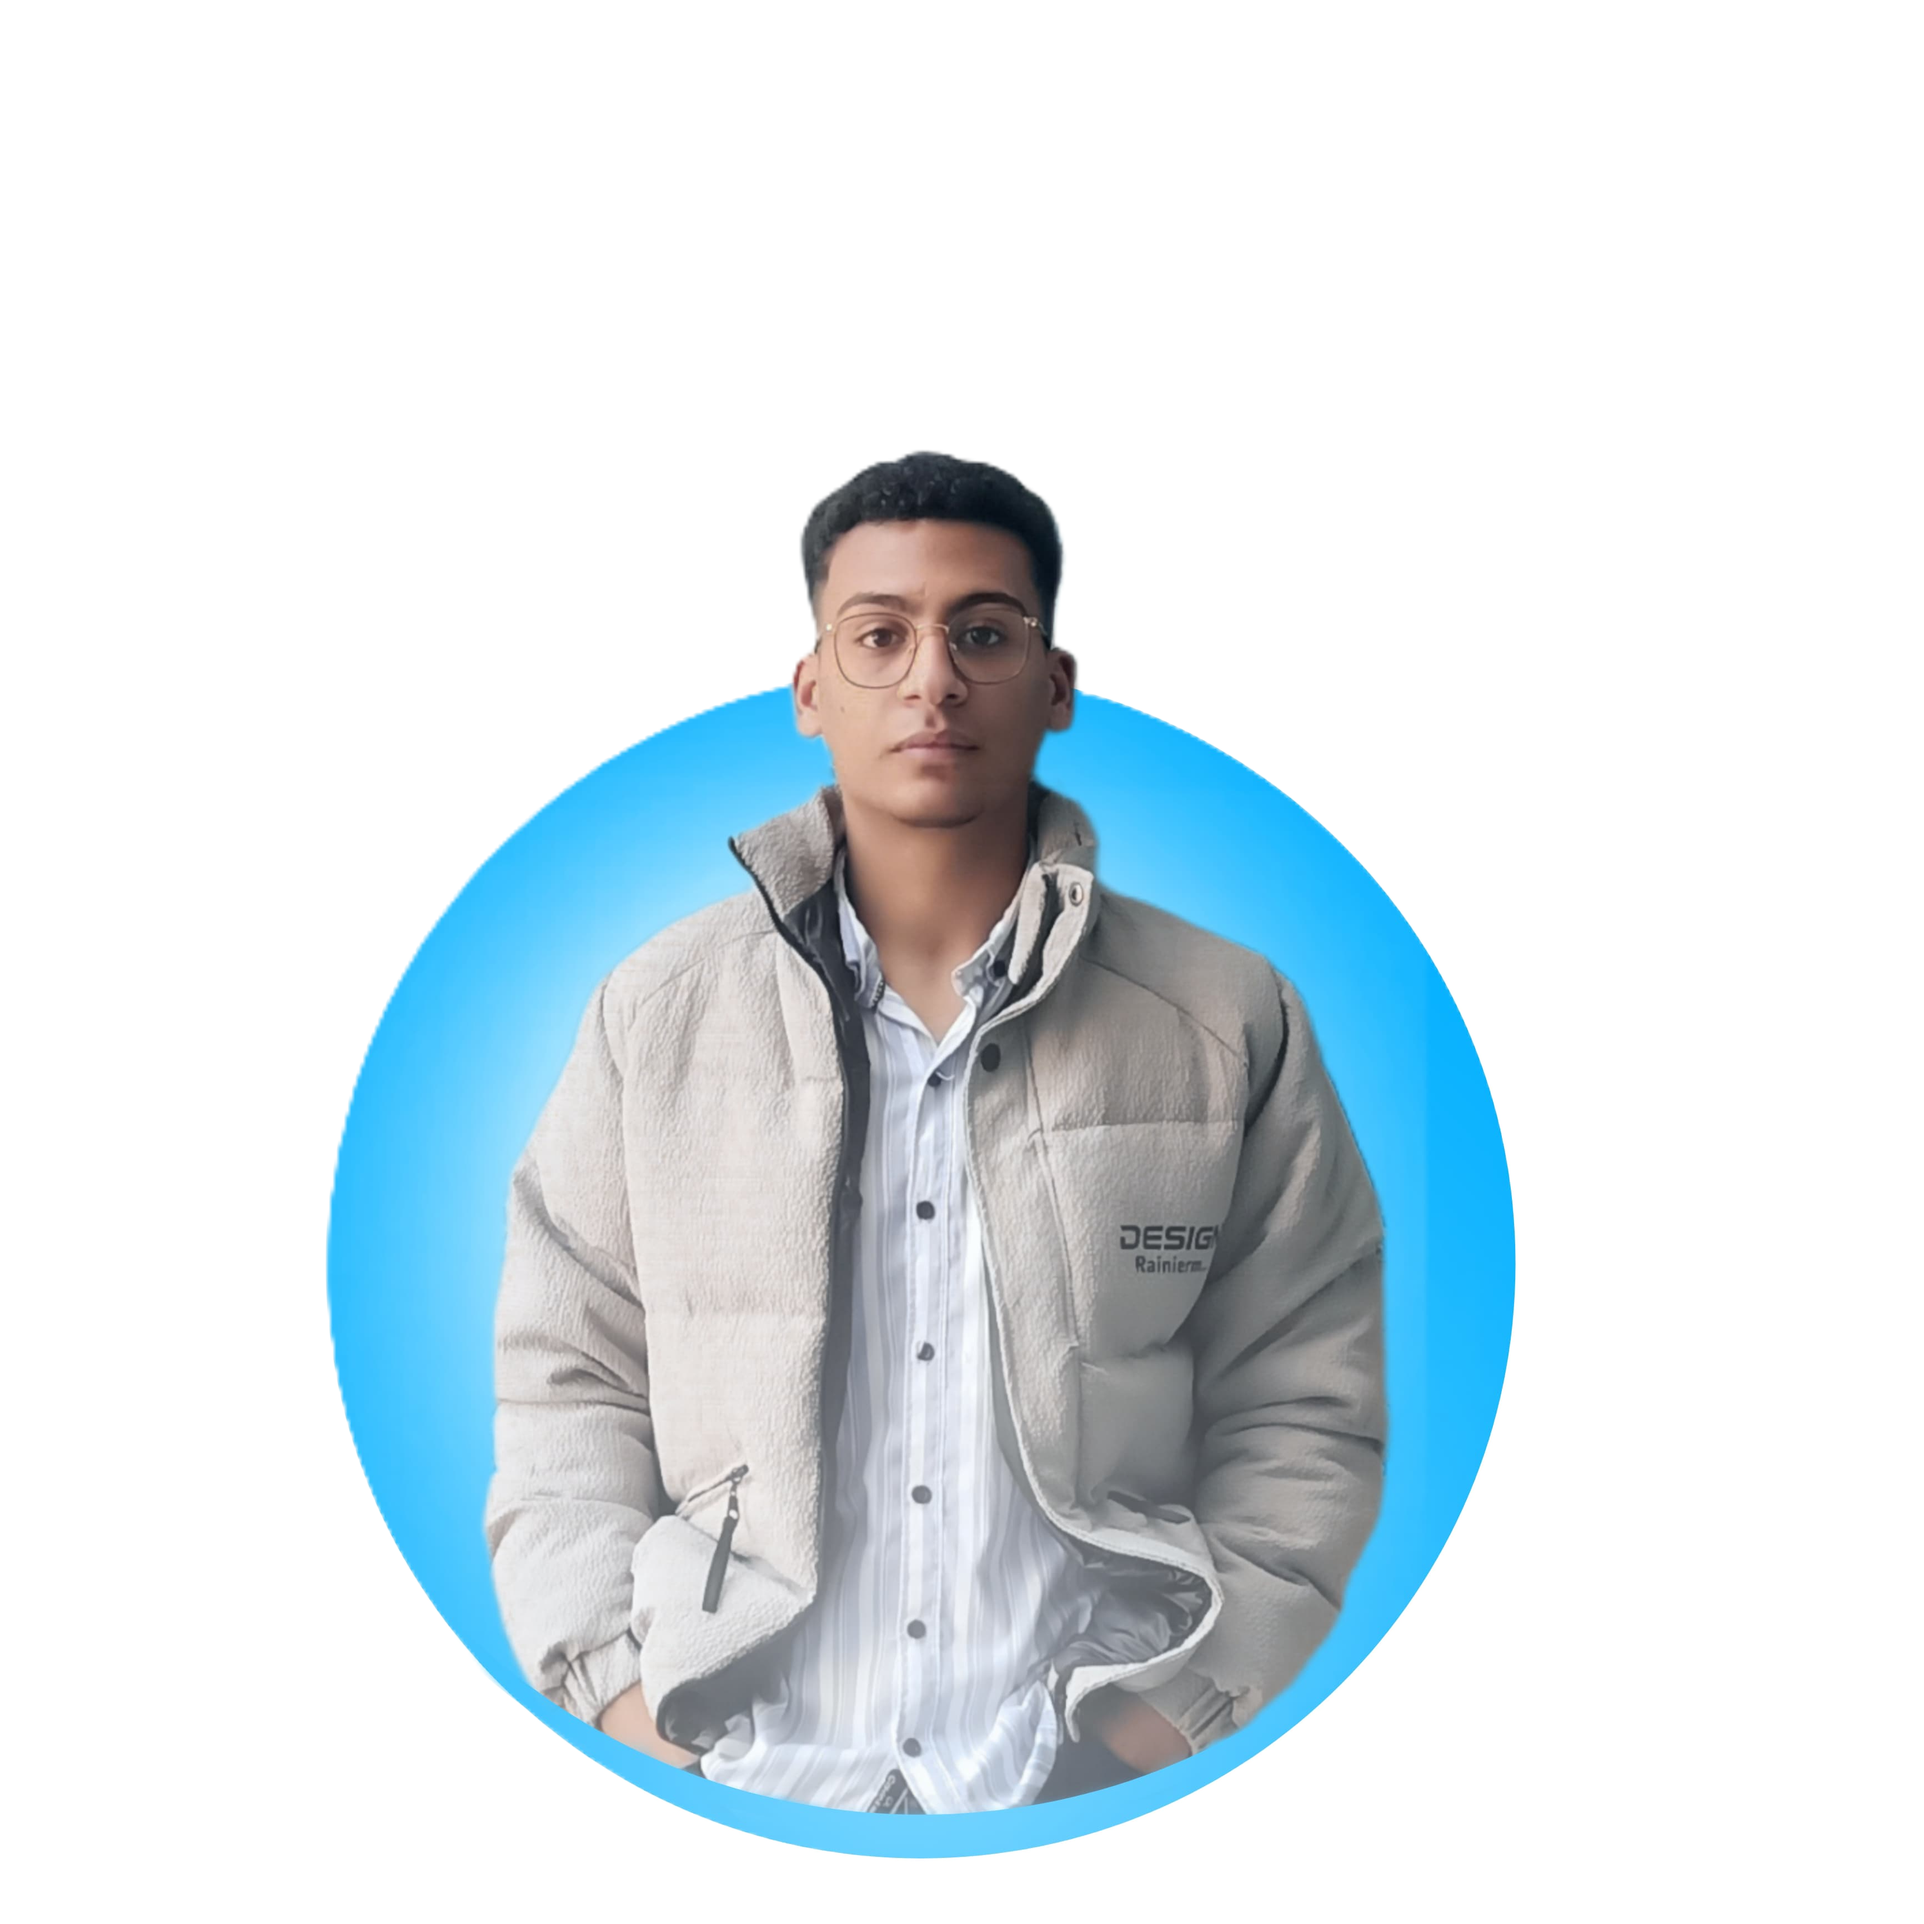
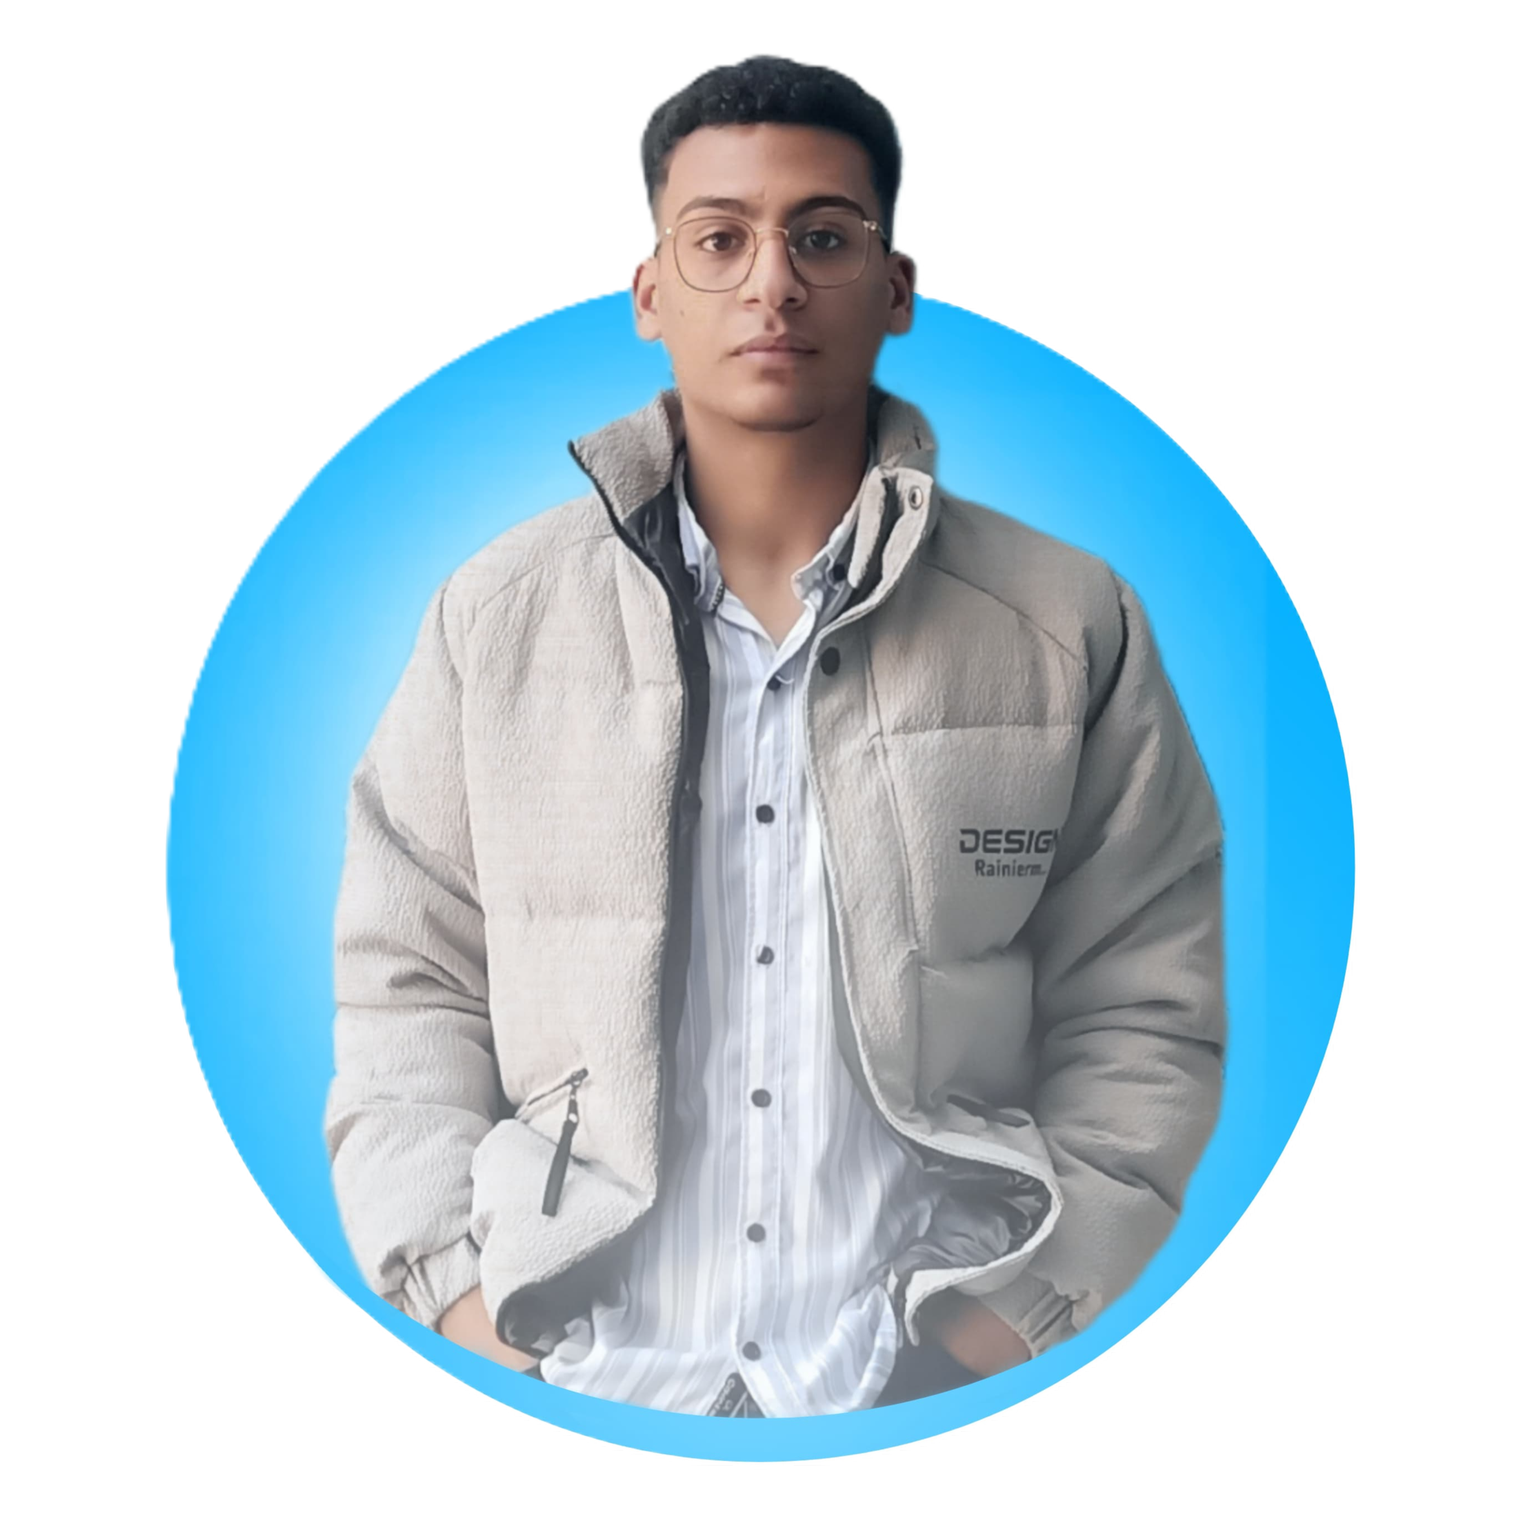
fixing some issues

diff --git a/src/sections/Home.jsx b/src/sections/Home.jsx
@@ -1,14 +1,10 @@
 import React, { useRef } from 'react';
-import Navbar from '../components/Navbar';
-import { Link } from 'react-router-dom';
 import Typewriter from '../components/Text';
-import Footer from '../components/Footer';
 import Fetures from '../components/Fetures';
-import Grades from './Grades';
+import Grades from '../components/Grades';
 import { useGSAP } from '@gsap/react';
 import gsap from 'gsap';
 import { SplitText } from 'gsap/all';
-import WhatsAppButton from '../components/WhatsAppButton';
 
 gsap.registerPlugin(SplitText);
 
@@ -22,16 +18,16 @@ const Home = () => {
     // const split = new SplitText(splitRef.current, { type: 'words,chars' });
 
     // Step 2: animate sections first
-    timeLine.fromTo("#home", { opacity: 0, x: -400 }, { opacity: 1, duration: 2, x: 0 , ease: "power2.out" ,delay: 2})
-      timeLine.fromTo("#text", { opacity: 0, x: 400 }, { opacity: 1, duration: 2, x: 0  , ease: "power2.out" })
-      
-      timeLine.from(".split", {
-        x: 150,
-        opacity: 0,
-        duration: 1.5,
-        ease: "power4",
-        stagger: 0.04
-      });
+    timeLine.fromTo("#home", { opacity: 0, x: -400 }, { opacity: 1, duration: 2, x: 0, ease: "power2.out", delay: 1 })
+    timeLine.fromTo("#text", { opacity: 0, x: 400 }, { opacity: 1, duration: 2, x: 0, ease: "power2.out" })
+
+    timeLine.from(".split", {
+      x: 150,
+      opacity: 0,
+      duration: 1.5,
+      ease: "power4",
+      stagger: 0.04
+    });
 
     // return () => {
     //   split.revert(); 
@@ -44,20 +40,19 @@ const Home = () => {
 
   return (
     <>
-        
-      <Navbar />
-      <div className='flex flex-col items-center justify-center gap-10 md:gap-15 lg:flex-row pb-10 lg:pb-0 min-h-screen overflow-hidden w-full'>
+
+      <div className='flex flex-col items-center justify-center  md:gap-15 lg:flex-row pb-10 lg:pb-0 min-h-screen overflow-hidden w-full'>
         <div id='home' className='flex items-center justify-center h-full lg:w-1/2'>
           <img
             src="./home/hero.png"
             alt=""
-            className='w-full lg:w-[85%] rounded-full hover:scale-105 transition-transform duration-500'
+            className='w-full md:w-[80%] rounded-full hover:scale-105 transition-transform duration-500 mt-20'
           />
         </div>
 
         <div id='text' className='flex items-center justify-center flex-col h-full lg:w-1/2 p-4'>
           <h1
-            ref={splitRef} 
+            ref={splitRef}
             className='split text-4xl lg:text-6xl text-white mb-5 lg:mb-10 text-center lg:text-right'
           >
             <span className='text-black dark:text-white'> الاستاذ </span>
@@ -82,9 +77,7 @@ const Home = () => {
       </div>
 
       <Grades />
-      <WhatsAppButton />
 
-      <Footer />
     </>
   );
 };

diff --git a/src/components/Footer.jsx b/src/components/Footer.jsx
@@ -1,49 +1,15 @@
-// import { useEffect } from "react";
 import { socialLinks } from "../const/index.js";
-import gsap from "gsap";
-import { ScrollTrigger } from "gsap/ScrollTrigger";
-import * as FaIcons from "react-icons/fa";
-import { useGSAP } from "@gsap/react";
 
-gsap.registerPlugin(ScrollTrigger);
 
 const Footer = () => {
-  useGSAP(() => {
-    gsap.fromTo(
-      ".footer",
-      { opacity: 0, y: 80 },
-      {
-        opacity: 1,
-        y: 0,
-        duration: 1.2,
-        ease: "power2.out",
-        scrollTrigger: {
-          trigger: ".footer",
-          start: "top 85%",
-          toggleActions: "play none none reverse",
-        },
-      }
-    );
-
-    gsap.fromTo(
-      ".footer-link",
-      { opacity: 0, y: 20 },
-      {
-        opacity: 1,
-        y: 0,
-        duration: 0.6,
-        stagger: 0.15,
-        ease: "power2.out",
-        scrollTrigger: {
-          trigger: ".footer",
-          start: "top 85%",
-        },
-      }
-    );
-  }, []);
+ 
 
   return (
-    <footer className="footer text-white pt-6 md:pt-0 pb-2 border-t-3 border-gray-600 bg-no-repeat bg-cover bg-contain bg-gradient-to-r from-blue-900 via-blue-600 to-blue-300">
+    <footer className="footer text-white pt-6 md:pt-0 pb-2 border-t-3 border-gray-600  bg-gradient-to-b 
+    from-[#0F818C] 
+    via-[#095259] 
+    via-64% 
+    to-[#042326]">
       <div className="flex items-center justify-center md:justify-around gap-5 flex-col md:flex-row w-full">
         <div className="flex flex-col items-center justify-center gap-5 border-b-5 border-green-500 md:border-0">
           <img
@@ -97,3 +63,4 @@ const Footer = () => {
 };
 
 export default Footer;
+

diff --git a/src/App.jsx b/src/App.jsx
@@ -3,6 +3,11 @@ import { Routes, Route, BrowserRouter } from "react-router-dom";
 import Home from "./sections/Home.jsx";
 import GradeDetial from "./sections/GradeDetial.jsx";
 import ScrollToTop from "./components/ScrollToTop.jsx";
+import Navbar from "./components/Navbar.jsx";
+import Footer from "./components/Footer.jsx";
+import WhatsAppButton from "./components/WhatsAppButton.jsx";
+import NotFound from "./sections/NotFound.jsx";
+
 const App = () => {
   const [loading, setLoading] = useState(true);
   const [visible, setVisible] = useState(true);
@@ -36,11 +41,15 @@ const App = () => {
       {/* Main App */}
       <BrowserRouter>
         <ScrollToTop />
+        <Navbar />
         <Routes>
           <Route path="/" element={<Home />} />
           <Route path="/grades/:name" element={<GradeDetial />} />
+          <Route path="*" element={<NotFound />} />
 
         </Routes>
+        <WhatsAppButton />
+        <Footer />
       </BrowserRouter>
     </>
   );

diff --git a/src/sections/GradeDetial.jsx b/src/sections/GradeDetial.jsx
@@ -1,17 +1,14 @@
 import React from 'react'
 import { useParams, Link } from 'react-router-dom'
 import { Grade } from '../const/index.js';
-import Navbar from '../components/Navbar.jsx';
-import Footer from '../components/Footer.jsx';
-import WhatsAppButton from '../components/WhatsAppButton.jsx';
+
 const GradeDetial = () => {
   const { name } = useParams();
   const matchedGrade = Grade.find((grade) => grade.name === name);
 
   return (
     <section >
-      <Navbar />
-      <WhatsAppButton />
+     
       <div className='flex flex-col items-center justify-center gap-10 h-[100vh] '>
 
         <img src={matchedGrade.photo} className="w-50 md:w-80 rounded-xl" alt="" />
@@ -20,7 +17,6 @@ const GradeDetial = () => {
           Go back
         </Link>
       </div>
-      <Footer />
     </section>
   )
 }

diff --git a/src/sections/NotFound.jsx b/src/sections/NotFound.jsx
@@ -1,0 +1,17 @@
+import React from 'react'
+import { Link } from 'react-router-dom'
+
+const NotFound = () => {
+  return (
+    <div className='flex flex-col items-center justify-center gap-10 h-[100vh]'>
+      <h1 className='text-center text-3xl text-black dark:text-white'>Page Not Found</h1>
+      <h2 className='text-center text-3xl text-black dark:text-white'>404</h2>
+      <Link to={'/'} className='text-center block text-2xl text-white hover:scale-110 duration-500 bg-gradient-to-r from-blue-500 via-blue-600 to-blue-700 text-white font-semibold py-2 px-6 rounded-lg mt-5'>
+        Go back
+      </Link>
+
+    </div>
+  )
+}
+
+export default NotFound
